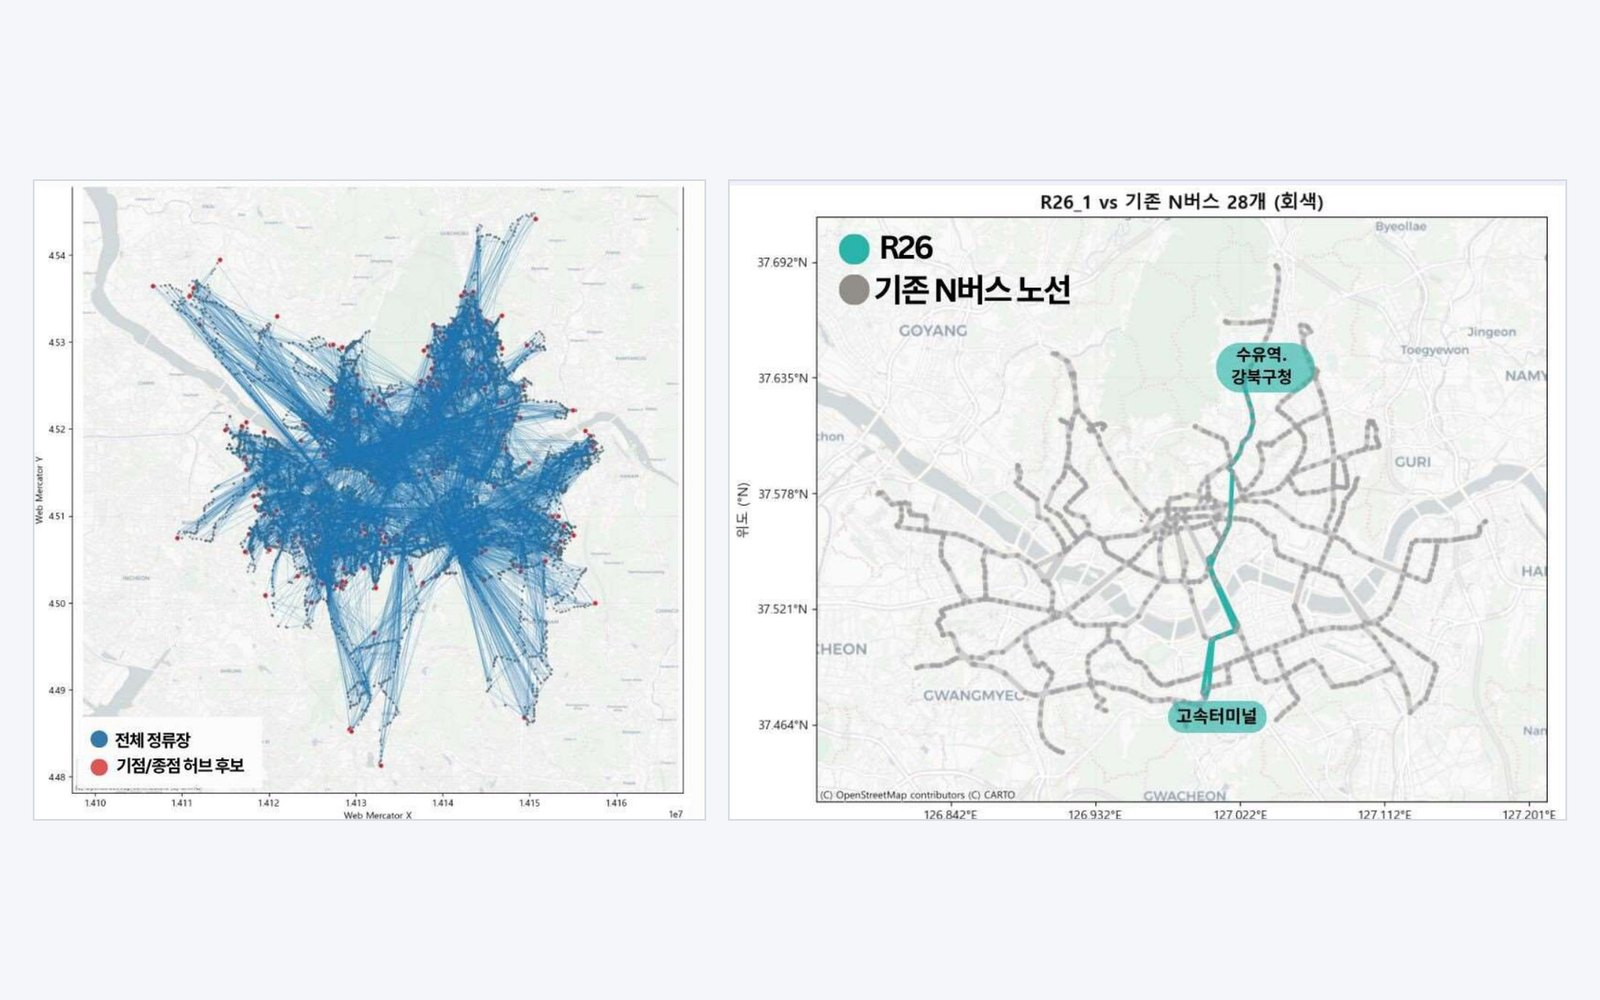
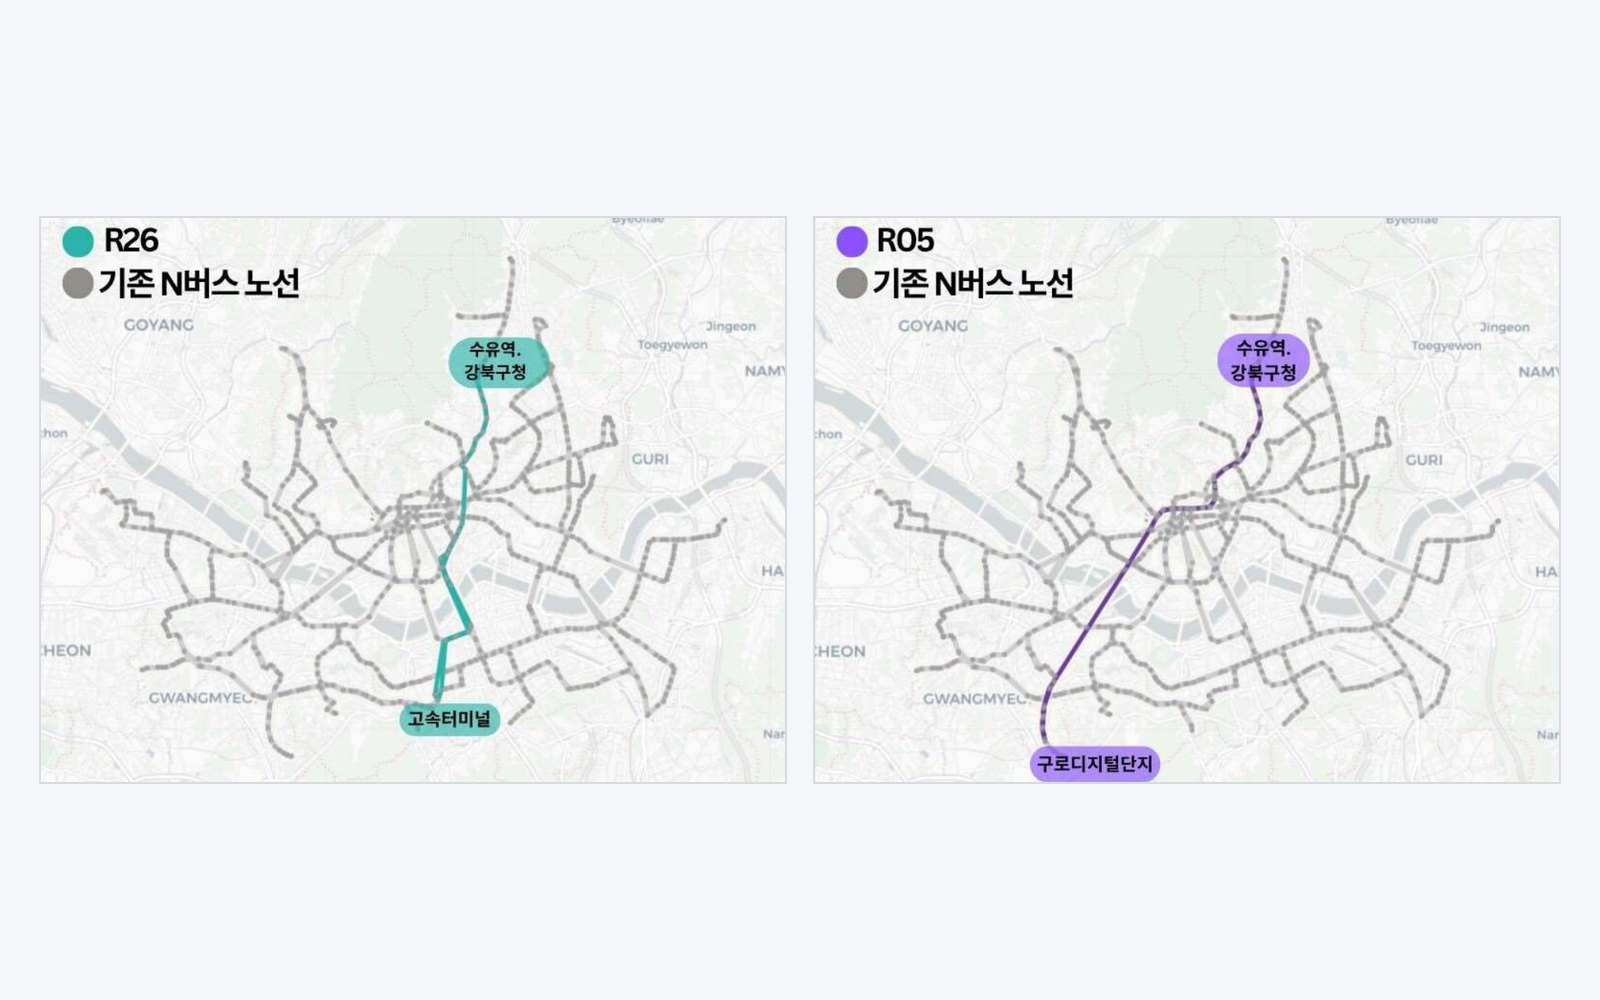
New N-bus cover with both routes; split AMIS dates; add club

diff --git a/index.html b/index.html
@@ -146,7 +146,8 @@
   .history ul { list-style: none; margin: 0; padding: 0; }
   .history li { display: grid; grid-template-columns: 1fr auto; gap: 3px 14px; align-items: baseline; padding: 12px 0; border-bottom: 1px solid var(--line); }
   .history li b { color: var(--ink); font-size: 15px; font-weight: 600; }
-  .history li time { grid-column: 2; grid-row: 1; font-size: 12.5px; color: var(--faint); white-space: nowrap; }
+  .history li time { grid-column: 2; grid-row: 1; font-size: 12.5px; color: var(--faint); white-space: nowrap; text-align: right; line-height: 1.7; }
+  .history li time i { font-style: normal; color: var(--sub); font-weight: 600; margin-right: 6px; }
   .history li span { grid-column: 1 / -1; font-size: 13px; color: var(--sub); }
 
   /* 마무리 · 연락 */
@@ -409,7 +410,8 @@
         <ul>
           <li><b>Google AI Essentials 수료</b><time>2026.03</time><span>고용노동부 · 구글코리아</span></li>
           <li><b>CANoe Workshop</b><time>2026.01</time><span>벡터코리아 아카데미 · CAN 통신·CAPL</span></li>
-          <li><b>연합봉사동아리 AMIS 회장</b><time>2024.01 – 2024.07</time><span>보육원 아동 교육봉사 · 활동 2023.03 – 2025.12 · 누적 200시간+</span></li>
+          <li><b>연합봉사동아리 AMIS</b><time><i>활동</i>2023.03 – 2026.06<br><i>회장</i>2024.01 – 2024.07</time><span>보육원 아동 교육봉사 · 누적 200시간+</span></li>
+          <li><b>서울시립대 산악부</b><time>2023.05 – 2025.12</time></li>
           <li><b>육군 병장 만기제대</b><time>2019.03 – 2020.10</time><span>대형차량운전병 · 11.5t 트럭 수송</span></li>
         </ul>
       </div>
